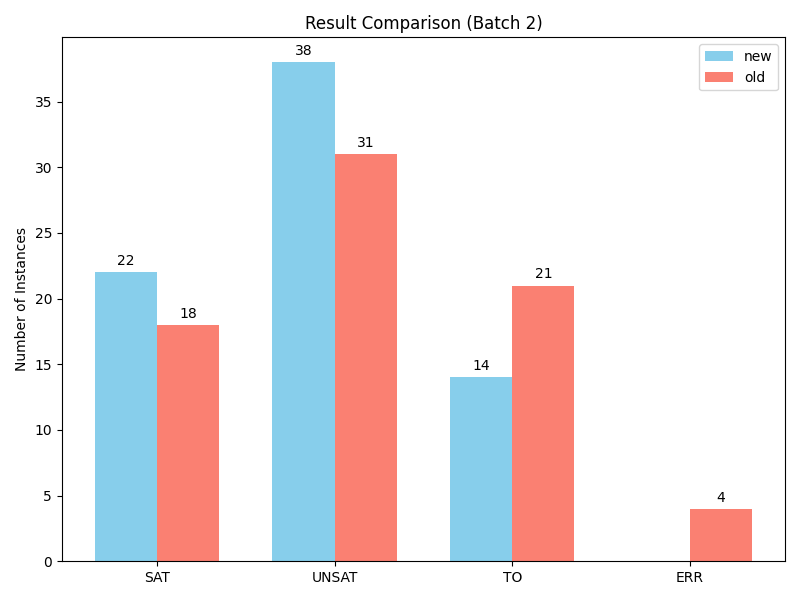
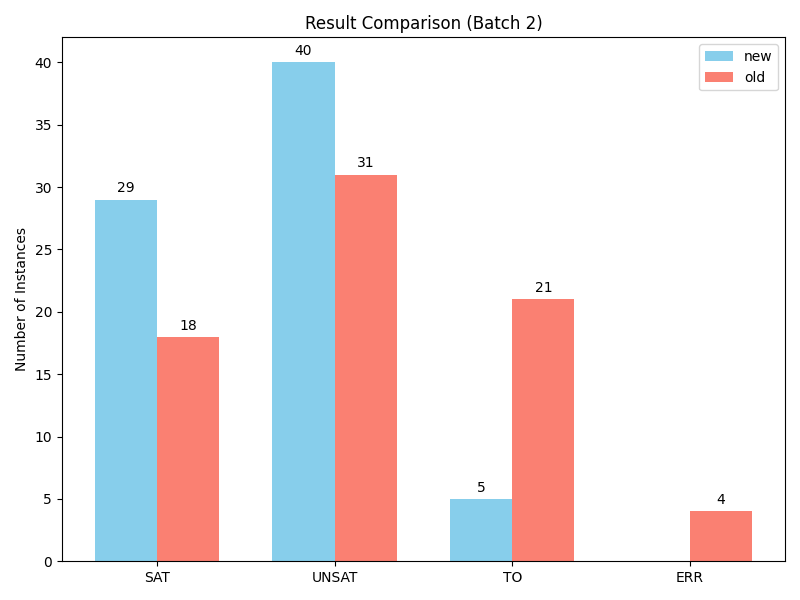
Optimize combinatorial search space for D sets
- Compute mandatory and forbidden pairs inline.
- Add early-exit for contradictions.
- Reduce combination search space using pre-filtered IxI subsets.

diff --git a/kh_solver.py b/kh_solver.py
@@ -319,6 +319,9 @@ def translate_s5_optimized_lu(problem) :
     # For each j, s, t, save the satisfiability of the formula: Θ+ ∧ Θ- ∧ (E(ψj ∧ ¬ψs) ∨ E(χt ∧ ¬χj))
     theta_D_disj_sat = {}
     
+    # Set of mandatory pairs that MUST be in D (because they break the disjunction condition)
+    theta_D_disj_sat_false = set()
+    
     print(f"Number of positives (|I|): {len(I)}, List |IxI| size: {len(IxI)}")
     print("Starting pre-computation for cases where s=t for theta_D_disj_sat...")
     
@@ -367,6 +370,10 @@ def translate_s5_optimized_lu(problem) :
             
             # Save results using the tuple (j-1, s-1, t-1) as key
             theta_D_disj_sat[(j-1, s-1, t-1)] = is_sat
+            if not is_sat:
+                # If it's UNSAT, the edge (s, t) cannot be in the transitive closure Pi(D).
+                # Therefore, we MUST include (s, t) in D to break this edge.
+                theta_D_disj_sat_false.add((s, t))
 
     
     print("=== theta_D_disj_sat ===")
@@ -378,6 +385,9 @@ def translate_s5_optimized_lu(problem) :
 
     # For each s, t in IxI save the satisfiability of the formula: Θ+ ∧ Θ- ∧ E(χt ∧ ¬ψs)
     theta_D_exist_sat = {}
+    
+    # Set of forbidden pairs that CANNOT be in D (because they break the conjunction condition)
+    theta_D_exist_sat_false = set()
     for t, s in IxI:
         print(f"  -> red_results: t={t}, s={s}")
         diamond_form = astkh.Diamond(astkh.And(pos_forms[t-1].right, astkh.Not(pos_forms[s-1].left)))
@@ -389,6 +399,9 @@ def translate_s5_optimized_lu(problem) :
         
         # Save results using the tuple (t-1, s-1) as key
         theta_D_exist_sat[(t-1, s-1)] = is_sat
+        if not is_sat:
+            # If it's UNSAT, this specific edge (t, s) is strictly forbidden from being in D.
+            theta_D_exist_sat_false.add((t, s))
 
     print("=== theta_D_exist_sat ===")
     for k, v in theta_D_exist_sat.items():
@@ -397,19 +410,42 @@ def translate_s5_optimized_lu(problem) :
 
     solver_calls_loop = 0
 
-    # Iterate over all subsets D of IxI
+
+
+    print(f"theta_D_disj_sat_false: {theta_D_disj_sat_false}")
+    print(f"theta_D_exist_sat_false: {theta_D_exist_sat_false}")
+
+    # Check for contradictions: If a pair must be in D but is also forbidden from D,
+    # then no valid subset D can exist, and the formula is UNSAT.
+    intersection = theta_D_disj_sat_false.intersection(theta_D_exist_sat_false)
+    if intersection:
+        print("Intersection between theta_D_disj_sat_false and theta_D_exist_sat_false is not empty!")
+        print(f"Intersection: {intersection}")
+        end_time = time.perf_counter()
+        print("The formula is UNSAT")
+        print(f"Time: {str(end_time - start_time)} seconds." )
+        return
+
+    # The search space for D is IxI minus the forbidden pairs and the mandatory pairs.
+    IxI_filtered = set(IxI) - theta_D_exist_sat_false - theta_D_disj_sat_false
+
+    # Iterate over all valid subsets D_subset of IxI_filtered
     print("theta_D_exist_sat complete. Starting evaluation of combinations (D)...")
-    for n in range(len(pos_forms)*len(pos_forms),-1,-1) :
-        print(f"==> Evaluating subsets of size n={n}")
-        for D in itertools.combinations(IxI, n) : 
+    for n in range(len(IxI_filtered), -1, -1) :
+        print(f"==> Evaluating subsets of size n={n} (total D size: {n + len(theta_D_disj_sat_false)})")
+        for D_subset in itertools.combinations(IxI_filtered, n) : 
+            # D is constructed by taking a valid subset and enforcing the mandatory pairs
+            D = set(D_subset).union(theta_D_disj_sat_false)
             Pi_D = Pi(D,I)
             
             # If any theta_D_disj_sat is False for any j and (s, t) in Pi_D, skip to the next D.
             if any(not theta_D_disj_sat[(j, s-1, t-1)] for j in range(len(neg_forms)) for s, t in Pi_D):
                 continue
+
+            # Not necessary
             # If any theta_D_exist_sat is False for any (t, s) in D, skip to the next D.
-            if any(not theta_D_exist_sat[(t-1, s-1)] for t, s in D):
-                continue
+            #if any(not theta_D_exist_sat[(t-1, s-1)] for t, s in D):
+            #    continue
 
             # we construct the S5 forms        
             # now we compute the big conjunction:  

diff --git a/Benchmark/scripts/compare_benchmark.py b/Benchmark/scripts/compare_benchmark.py
@@ -12,7 +12,7 @@ def run_solver(instance_path, method):
     try:
         output_bytes = subprocess.run(
             [sys.executable, "../../kh_solver.py", "-f", instance_path, "-m", method], 
-            timeout=30, 
+            timeout=45, 
             capture_output=True
         ).stdout
         output = output_bytes.decode('utf-8', errors='ignore')
